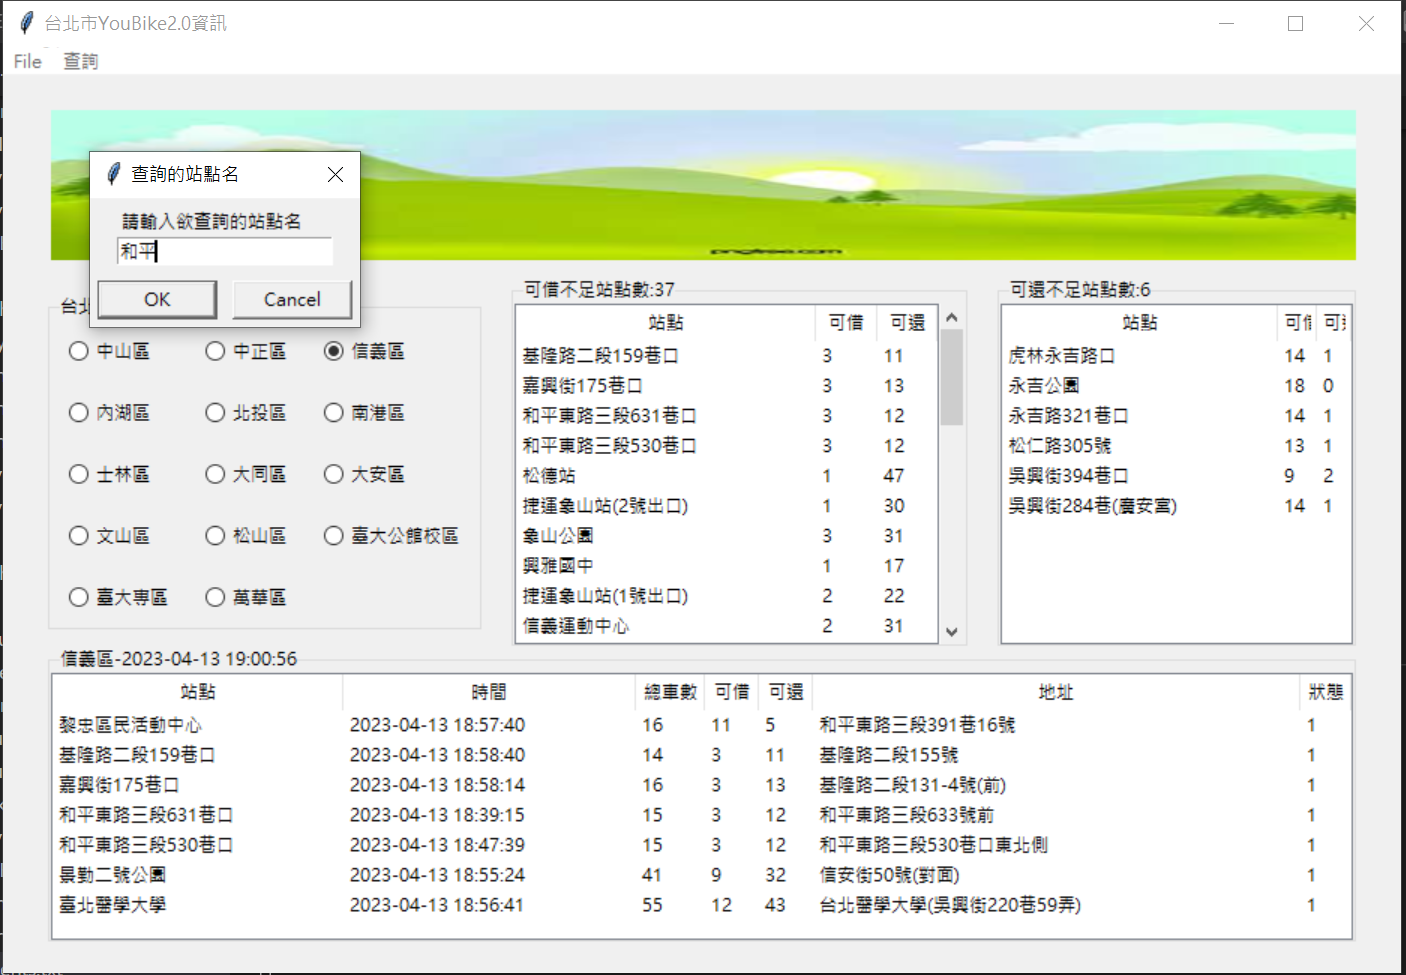
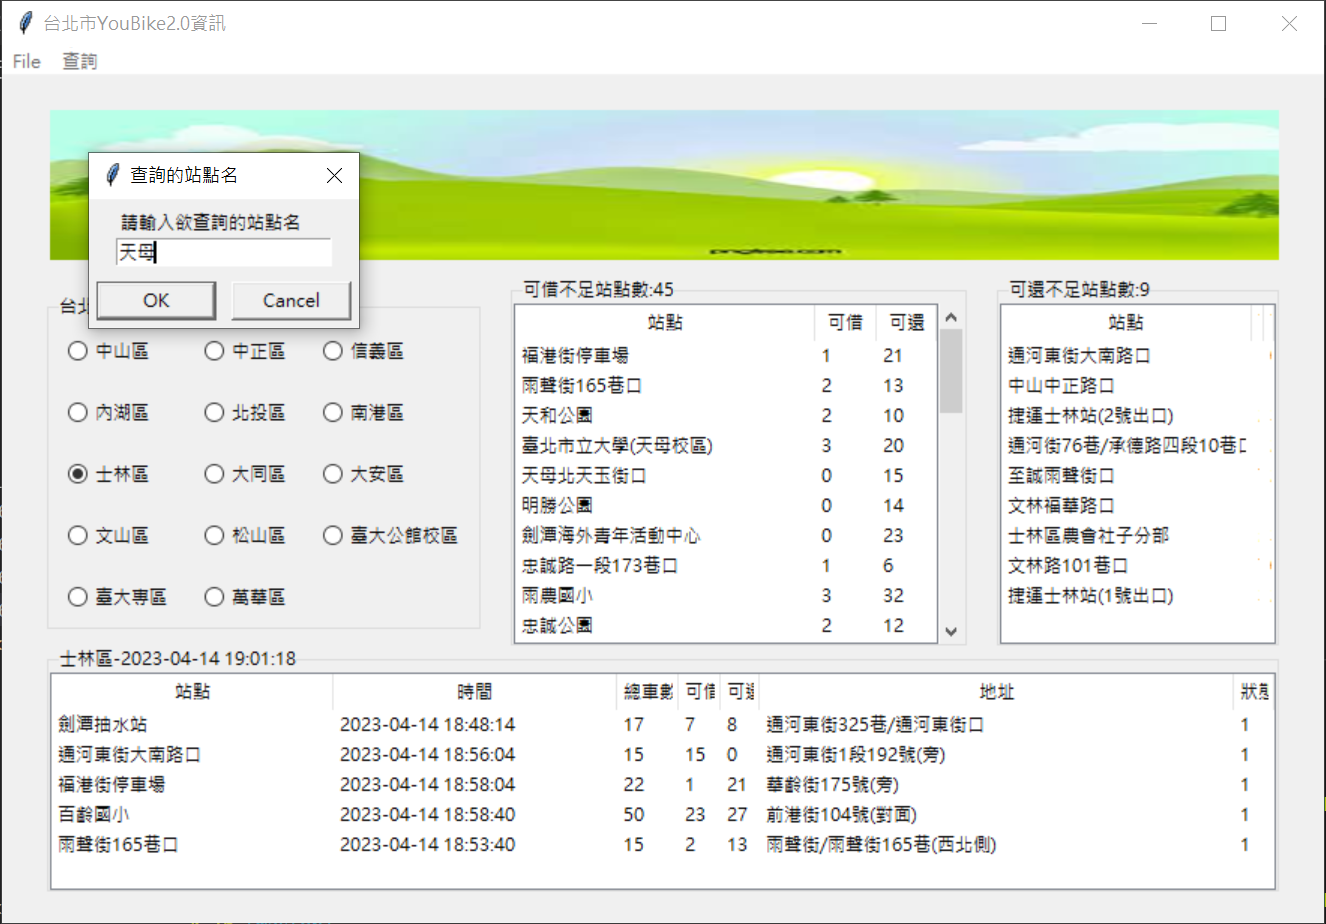
modify

Changed region(s): [[0.0, 0.0, 1.0, 1.0], [0.0, 0.9697, 0.0309, 1.0]]

diff --git a/homeWork/homeWork_16/main.py b/homeWork/homeWork_16/main.py
@@ -177,8 +177,7 @@ class Window(tk.Tk):
             self.tree.delete(item)  
         for item in self.area_data:
             if siteStr in item['sna'] or siteStr in item['ar']:
-                self.tree.insert('', tk.END, values=[item['sna'][11:],item['mday'],item['tot'],item['sbi'],item['bemp'],item['ar'],item['act']],tags=item['sna'])
-        
+                self.tree.insert('', tk.END, values=[item['sna'][11:],item['mday'],item['tot'],item['sbi'],item['bemp'],item['ar'],item['act']],tags=item['sna'])     
              
         for item in self.sbi_tree.get_children():
             self.sbi_tree.delete(item)
@@ -187,7 +186,16 @@ class Window(tk.Tk):
             if siteStr in item['sna']:
                 self.sbi_tree.insert('', tk.END, values=[item['sna'][11:],item['sbi'],item['bemp']]) 
                 sbi_sites_numbers += 1
-        self.sbi_warningFrame.configure(text=f"可借不足站點數:{sbi_sites_numbers}")
+        self.sbi_warningFrame.configure(text=f"可借不足站點數:{sbi_sites_numbers}")            
+             
+        for item in self.bemp_tree.get_children():
+            self.bemp_tree.delete(item)
+        bemp_sites_numbers = 0
+        for item in self.bemp_warning_data: 
+            if siteStr in item['sna']:
+                self.bemp_tree.insert('', tk.END, values=[item['sna'][11:],item['sbi'],item['bemp']]) 
+                bemp_sites_numbers += 1
+        self.bemp_warningFrame.configure(text=f"可借不足站點數:{bemp_sites_numbers}")
 
 
     def radioEvent(self):
@@ -211,20 +219,20 @@ class Window(tk.Tk):
         # Get all station data from selected area
         self.area_data = datasource.getInfoDataFromArea(area_name) 
         # Filter data with sbi warning number
-        sbi_warning_data = datasource.filter_sbi_warning_data(self.area_data,sbi_numbers)  
-        self.sbi_sites_numbers = len(sbi_warning_data)
+        self.sbi_warning_data = datasource.filter_sbi_warning_data(self.area_data,sbi_numbers)  
+        self.sbi_sites_numbers = len(self.sbi_warning_data)
         self.sbi_warningFrame.configure(text=f"可借不足站點數:{self.sbi_sites_numbers}")
         # Filter data with bemp warning number
-        bemp_warning_data = datasource.filter_bemp_warning_data(self.area_data,bemp_numbers) 
-        self.bemp_sites_numbers = len(bemp_warning_data)
+        self.bemp_warning_data = datasource.filter_bemp_warning_data(self.area_data,bemp_numbers) 
+        self.bemp_sites_numbers = len(self.bemp_warning_data)
         self.bemp_warningFrame.configure(text=f"可還不足站點數:{self.bemp_sites_numbers}")
 
         # Display data in tree view
         for item in self.area_data:
             self.tree.insert('', tk.END, values=[item['sna'][11:],item['mday'],item['tot'],item['sbi'],item['bemp'],item['ar'],item['act']],tags=item['sna'])
-        for item in sbi_warning_data:
+        for item in self.sbi_warning_data:
             self.sbi_tree.insert('', tk.END, values=[item['sna'][11:],item['sbi'],item['bemp']])        
-        for item in bemp_warning_data:
+        for item in self.bemp_warning_data:
             self.bemp_tree.insert('', tk.END, values=[item['sna'][11:],item['sbi'],item['bemp']])
 
 
